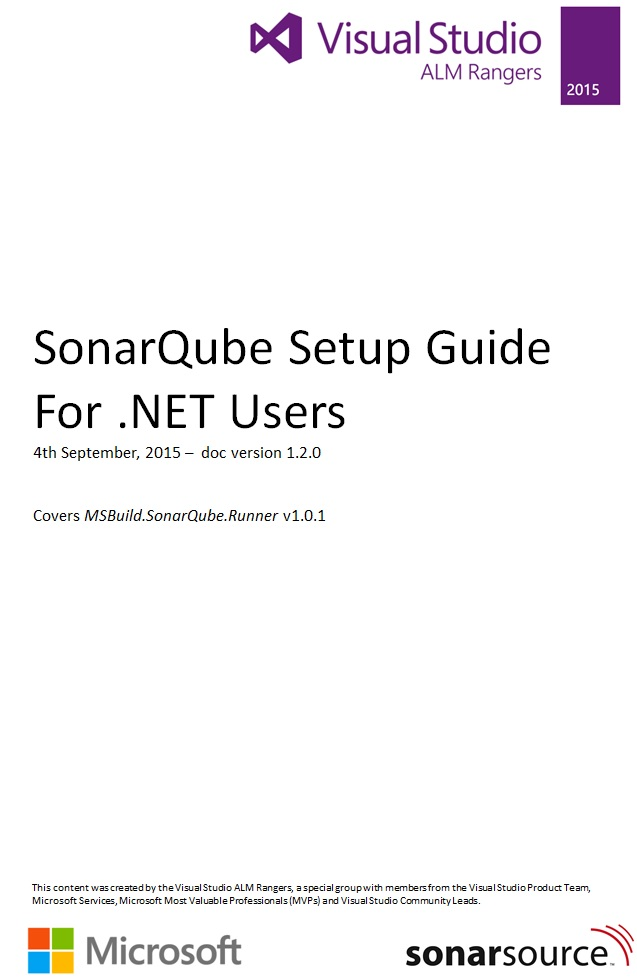
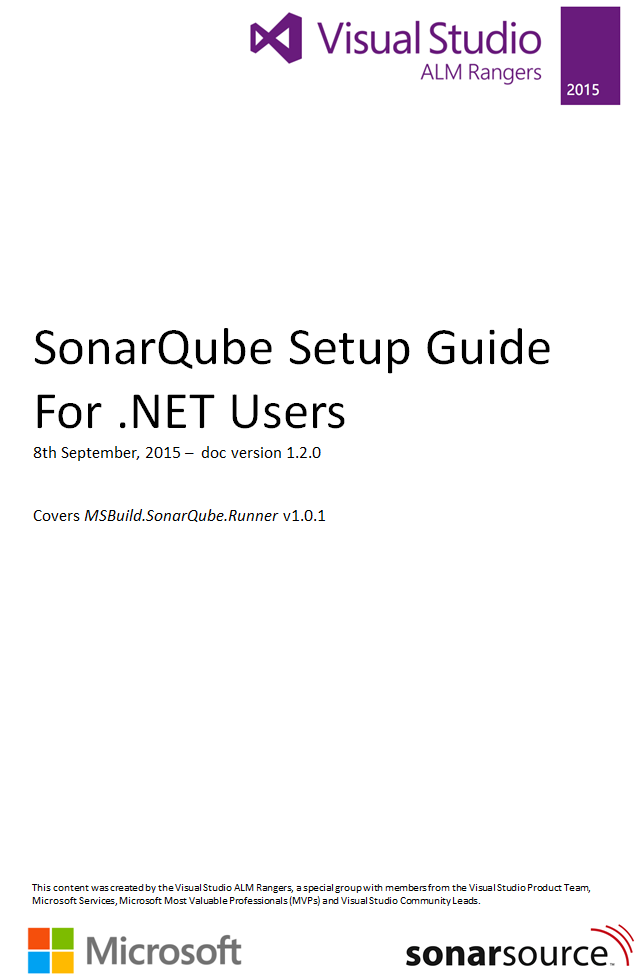
Updated cover and link releaes for 1.2.0

diff --git a/README.md b/README.md
@@ -3,7 +3,7 @@
 The goal of this documentation is to explain to any member of the .Net community how to install, configure and use the SonarQube ecosystem to analyze .Net projects.
 
 # PDF version of the documentation
-The pdf for the latest release is available [here](https://github.com/SonarSource/sonar-.net-documentation/releases/download/1.1.0/SonarQube-Setup-Guide-For-Net-Users-V-1-1-0.pdf).
+The pdf for the latest release is available [here](https://github.com/SonarSource/sonar-.net-documentation/releases/download/1.2.0/SonarQube-Setup-Guide-For-Net-Users-v-1-2-0.pdf).
 
 
 # GitBook
